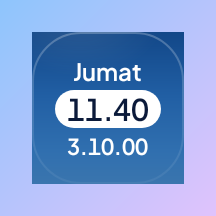
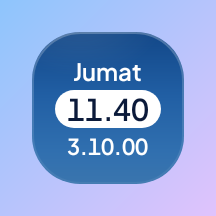
Widget: cut the sky to round corners on Android 8-11
On an Android 8 emulator (5.4b) the widget's own corners were square: the
DST_IN mask in SkyPainter.roundAndRim never cleared the corners, which
Android 12+ hides by clipping widgets itself. Draw the sky through a
BitmapShader into an anti-aliased rounded rectangle instead.

SkyCornerTest checks the corners are transparent; it failed before.
Renders refresh with round corners.

diff --git a/app/src/main/java/id/haho/muslimdaily/widget/SkyPainter.kt b/app/src/main/java/id/haho/muslimdaily/widget/SkyPainter.kt
@@ -1,13 +1,12 @@
 package id.haho.muslimdaily.widget
 
 import android.graphics.Bitmap
+import android.graphics.BitmapShader
 import android.graphics.Canvas
 import android.graphics.Color
 import android.graphics.LinearGradient
 import android.graphics.Matrix
 import android.graphics.Paint
-import android.graphics.PorterDuff
-import android.graphics.PorterDuffXfermode
 import android.graphics.RadialGradient
 import android.graphics.RectF
 import android.graphics.Shader
@@ -121,8 +120,7 @@ object SkyPainter {
 
         if (stars && look.stars > 0.01f) stars(c, w, h, density, look.stars)
 
-        roundAndRim(c, bmp, w, h, density, cornerPx)
-        return bmp
+        return roundAndRim(bmp, w, h, density, cornerPx)
     }
 
     /** A plain night sky, for a widget with nothing to show yet. */
@@ -143,13 +141,16 @@ object SkyPainter {
         }
     }
 
-    /** Rounded corners (launchers before Android 12 draw widgets edge to edge) and a soft rim. */
-    private fun roundAndRim(c: Canvas, bmp: Bitmap, w: Float, h: Float, d: Float, corner: Float) {
-        val mask = Paint(Paint.ANTI_ALIAS_FLAG).apply { xfermode = PorterDuffXfermode(PorterDuff.Mode.DST_IN) }
-        val shape = createBitmap(bmp.width, bmp.height, Bitmap.Config.ALPHA_8)
-        Canvas(shape).drawRoundRect(RectF(0f, 0f, w, h), corner, corner, Paint(Paint.ANTI_ALIAS_FLAG).apply { color = Color.BLACK })
-        c.drawBitmap(shape, 0f, 0f, mask)
-        shape.recycle()
+    /**
+     * Rounded corners (launchers before Android 12 draw widgets edge to edge) and a soft rim. The
+     * sky is drawn through a shader into an anti-aliased rounded rectangle on a clear bitmap, so
+     * the corners are truly transparent.
+     */
+    private fun roundAndRim(sky: Bitmap, w: Float, h: Float, d: Float, corner: Float): Bitmap {
+        val bmp = createBitmap(sky.width, sky.height)
+        val c = Canvas(bmp)
+        c.drawRoundRect(RectF(0f, 0f, w, h), corner, corner, Paint(Paint.ANTI_ALIAS_FLAG).apply { shader = BitmapShader(sky, Shader.TileMode.CLAMP, Shader.TileMode.CLAMP) })
+        sky.recycle()
         val rim = Paint(Paint.ANTI_ALIAS_FLAG).apply {
             style = Paint.Style.STROKE
             strokeWidth = 1f * d
@@ -157,5 +158,6 @@ object SkyPainter {
         }
         val inset = rim.strokeWidth / 2
         c.drawRoundRect(RectF(inset, inset, w - inset, h - inset), corner, corner, rim)
+        return bmp
     }
 }

diff --git a/app/src/test/java/id/haho/muslimdaily/widget/SkyCornerTest.kt b/app/src/test/java/id/haho/muslimdaily/widget/SkyCornerTest.kt
@@ -1,0 +1,32 @@
+package id.haho.muslimdaily.widget
+
+import android.graphics.Color
+import androidx.test.ext.junit.runners.AndroidJUnit4
+import org.junit.Test
+import org.junit.runner.RunWith
+import org.robolectric.annotation.GraphicsMode
+import kotlin.test.assertEquals
+import kotlin.test.assertTrue
+
+/**
+ * Before Android 12 launchers draw widgets edge to edge, so the sky bitmap itself must have
+ * round corners: transparent outside the rounded rectangle, opaque inside.
+ */
+@RunWith(AndroidJUnit4::class)
+@GraphicsMode(GraphicsMode.Mode.NATIVE)
+class SkyCornerTest {
+
+    @Test
+    fun `the sky is cut to round corners`() {
+        val density = 2f
+        val corner = 24 * density
+        val sky = SkyPainter.paint(680, 328, density, Sky.NIGHT, corner)
+        for ((x, y) in listOf(0 to 0, sky.width - 1 to 0, 0 to sky.height - 1, sky.width - 1 to sky.height - 1)) {
+            assertEquals(0, Color.alpha(sky.getPixel(x, y)), "corner ($x, $y) should be transparent")
+        }
+        assertEquals(255, Color.alpha(sky.getPixel(sky.width / 2, sky.height / 2)))
+        // Just inside the curve, on the diagonal, is sky again.
+        val inside = (corner * 0.4f).toInt()
+        assertTrue(Color.alpha(sky.getPixel(inside, inside)) > 200)
+    }
+}
